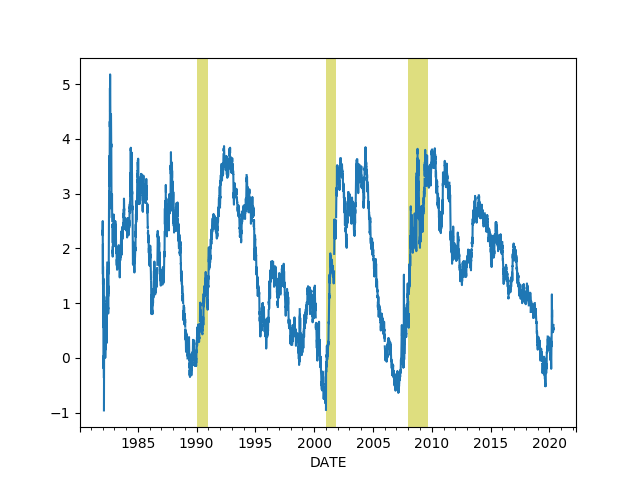
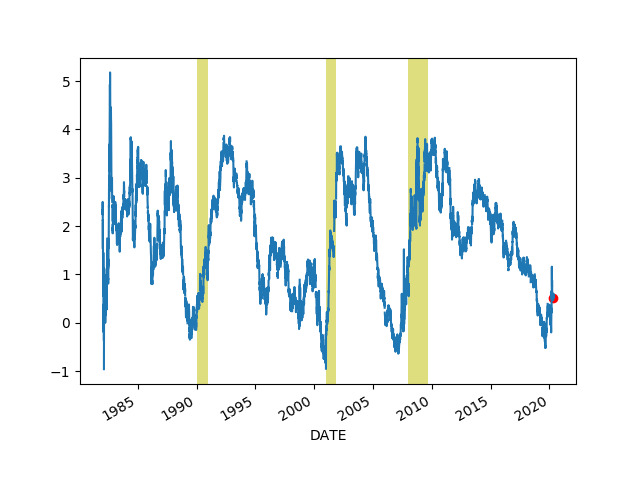
-

diff --git a/en/2019/05/stats.md b/en/2019/05/stats.md
@@ -590,6 +590,7 @@ cols = ['DGS10','DGS3MO']
 df = data.DataReader(cols, 'fred', start, end)
 df['Yield Curve'] = df.DGS10 - df.DGS3MO
 print (df.tail(6))
+plt.plot(df.tail(1).index, df.tail(1)['Yield Curve'],'ro')
 df['Yield Curve'].plot()
 plt.axvspan('01-09-1990', '01-07-1991', color='y', alpha=0.5, lw=0)
 plt.axvspan('01-03-2001', '27-10-2001', color='y', alpha=0.5, lw=0)
@@ -600,12 +601,12 @@ plt.savefig('yield-curve.png')
 ```text
             DGS10  DGS3MO  Yield Curve
 DATE                                  
-2020-04-29   0.63    0.10         0.53
 2020-04-30   0.64    0.09         0.55
 2020-05-01   0.64    0.12         0.52
 2020-05-04   0.64    0.13         0.51
 2020-05-05   0.66    0.13         0.53
 2020-05-06   0.72    0.12         0.60
+2020-05-07   0.63    0.11         0.52
 ```
 
 ![](yield-curve.png)
@@ -659,7 +660,7 @@ end=datetime.datetime(today.year, today.month, today.day)
 df = web.DataReader("CL=F", 'yahoo', start, end)
 df = df['Close']
 print (df.tail(5))
-
+plt.plot(df.tail(1).index, df.tail(1),'ro')
 df.plot()
 plt.axvspan('01-03-2001', '27-10-2001', color='y', alpha=0.5, lw=0)
 plt.axvspan('22-12-2007', '09-05-2009', color='y', alpha=0.5, lw=0)
@@ -672,7 +673,7 @@ Date
 2020-05-05    25.790001
 2020-05-06    23.780001
 2020-05-07    23.590000
-2020-05-08    24.850000
+2020-05-08    24.629999
 Name: Close, dtype: float64
 ```
 
